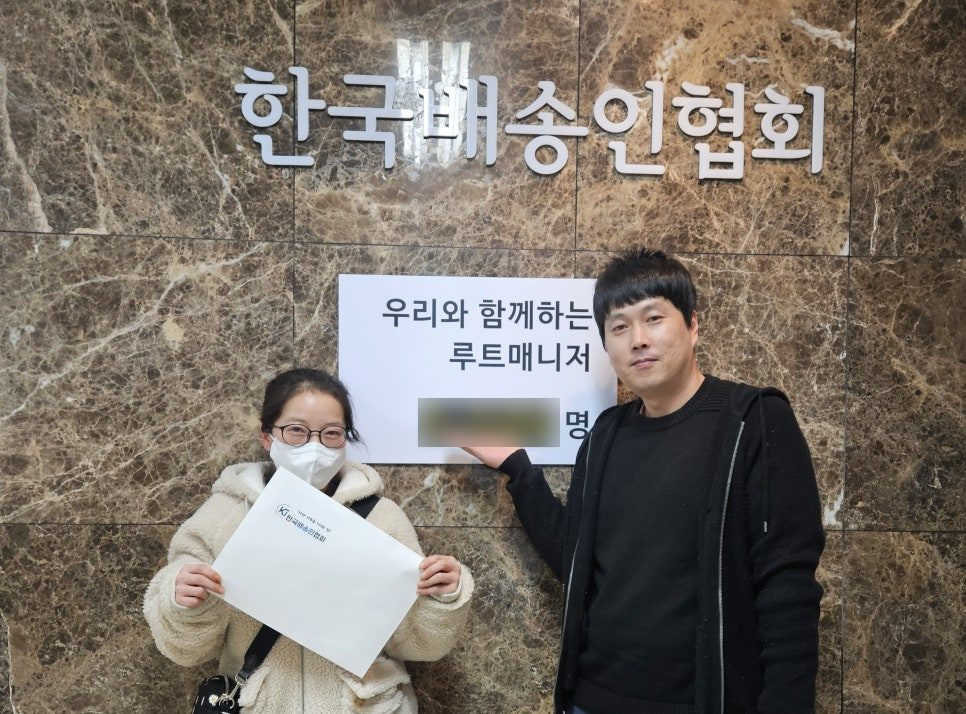
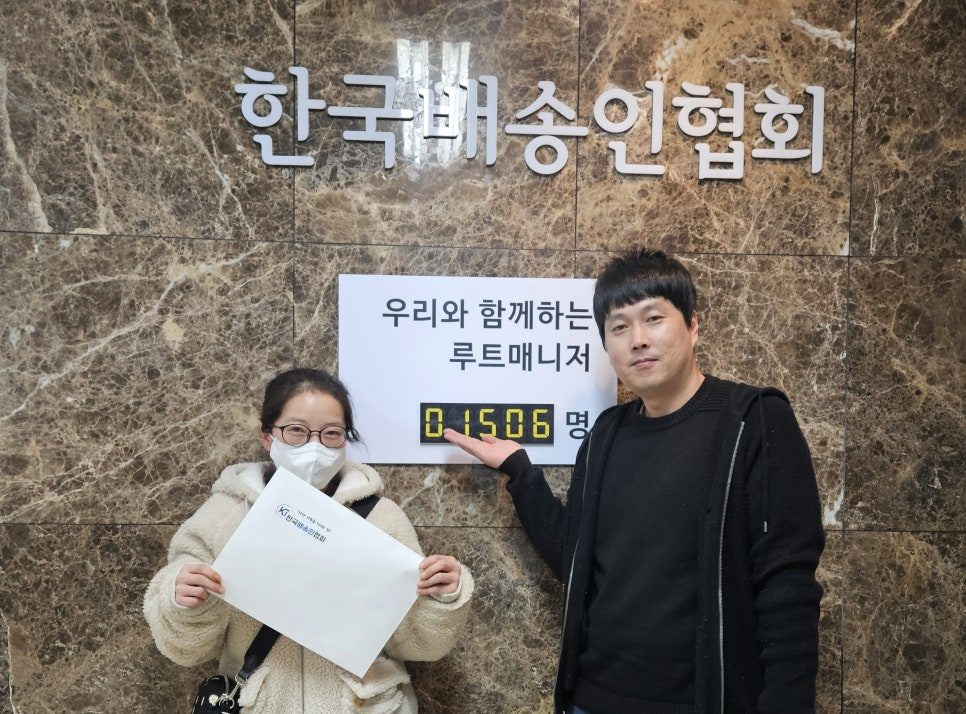
후기 사진의 루트매니저 번호가 보이도록 복원 (신혼부부 01434, 5남매 부모님 01506)
Claude-Session: https://claude.ai/code/session_012jEaXjcJZhmzTuvegN8z3N

Changed region(s): [[0.4348, 0.5546, 0.5901, 0.6471]]

diff --git a/index.html b/index.html
@@ -186,7 +186,7 @@
         <p class="rq__label">사기를 걱정했던 분들의 후기</p>
         <div class="kroll kroll--scam" aria-label="사기를 걱정했던 분들의 후기 (옆으로 넘겨보세요)">
           <article class="pcard">
-            <img src="img/reviews/couple.jpg" alt="사기 피해 후 루트매니저가 된 신혼부부" width="640" height="776" loading="lazy">
+            <img src="img/reviews/couple.jpg" alt="루트매니저 1,434번째로 함께한 신혼부부" width="800" height="600" loading="lazy">
             <div class="pcard__body">
               <p class="qcard__stars" aria-label="별점 5점">★★★★★</p>
               <p class="pcard__h">사기당한 신혼부부의 마지막 빛이 되어주셨습니다.</p>
@@ -291,7 +291,7 @@
       <article class="feat" id="story-five">
         <p class="feat__tag">40대 부부 · 2인 1조 · 5남매 부모님</p>
         <h3 class="feat__h">2달 만에 월 1,000만원 달성한<br><em>5남매 부모님</em>의 치열한 생존기</h3>
-        <figure class="feat__photo"><img src="img/reviews/story-five.jpg" alt="루트매니저 계약 날 사무실에서 사진을 찍은 5남매 부모님" width="966" height="714" loading="lazy"></figure>
+        <figure class="feat__photo"><img src="img/reviews/story-five.jpg" alt="루트매니저 1,506번째로 함께한 5남매 부모님" width="966" height="714" loading="lazy"></figure>
         <div class="feat__before">
           <p class="feat__label">시작하기 전, 보내주신 다짐</p>
           <blockquote>“저희 부부는 정말 열심히 일해서 돈도 많이 벌고 5명의 아이들도 데리고 와서, 우리 가족이 여지껏 경험하지 못한 새로운 인생을 살기 위해 진짜 노력할 거예요!”</blockquote>

diff --git a/css/membership.css b/css/membership.css
@@ -167,7 +167,7 @@
 .scam-rv{gap:10px}
 .kroll--scam{align-items:stretch}
 .kroll--scam>*{scroll-snap-align:center;display:flex;flex-direction:column}
-.kroll--scam .pcard img{aspect-ratio:4/3}
+.kroll--scam .pcard img{aspect-ratio:4/3;object-position:50% 50%}
 .kroll--scam .pcard__body p:last-child{font-size:14px}
 .kroll--scam .kshot img{aspect-ratio:4/3;object-fit:cover;object-position:top;max-height:none}
 .kroll--scam .kshot figcaption{flex:1;display:flex;align-items:center;justify-content:center;font-size:15px}
